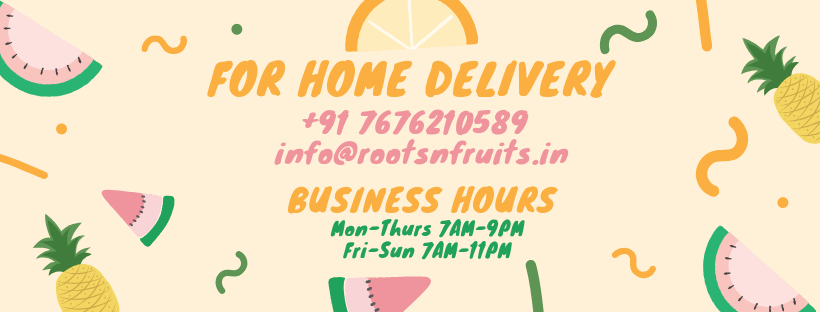
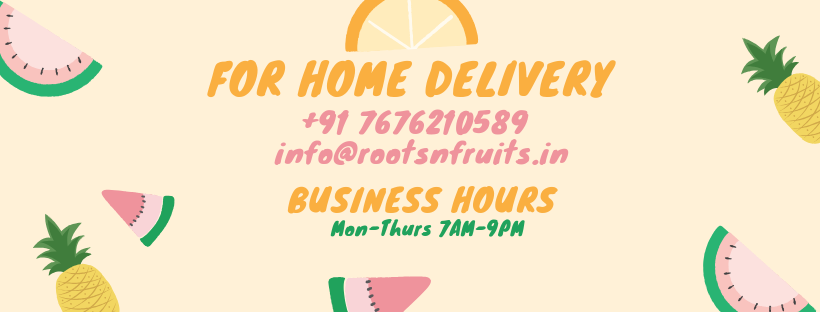
contact page update

diff --git a/contact.html b/contact.html
@@ -25,6 +25,12 @@
 <!-- Page body -->
 
 
+
+<div>
+  <a href="/menu.html"><img src="img/ContactUsPage.png" width="100%"></a>
+</div>
+
+<!--
 <div class="contact_box">
   <div style="font-size: 50px;padding: 50px 0">For Home Delivery</div>
   <div style="font-size: 34px;padding: 10px 0">+91 9845-133-188</div>
@@ -32,7 +38,7 @@
   <div style="font-size: 24px;padding: 50px 0">Open daily 7am - 9pm</div>
 </div>
 <div class="clearfix"></div>
-
+-->
 
 <!-- Footer -->
 <div class="footer">
